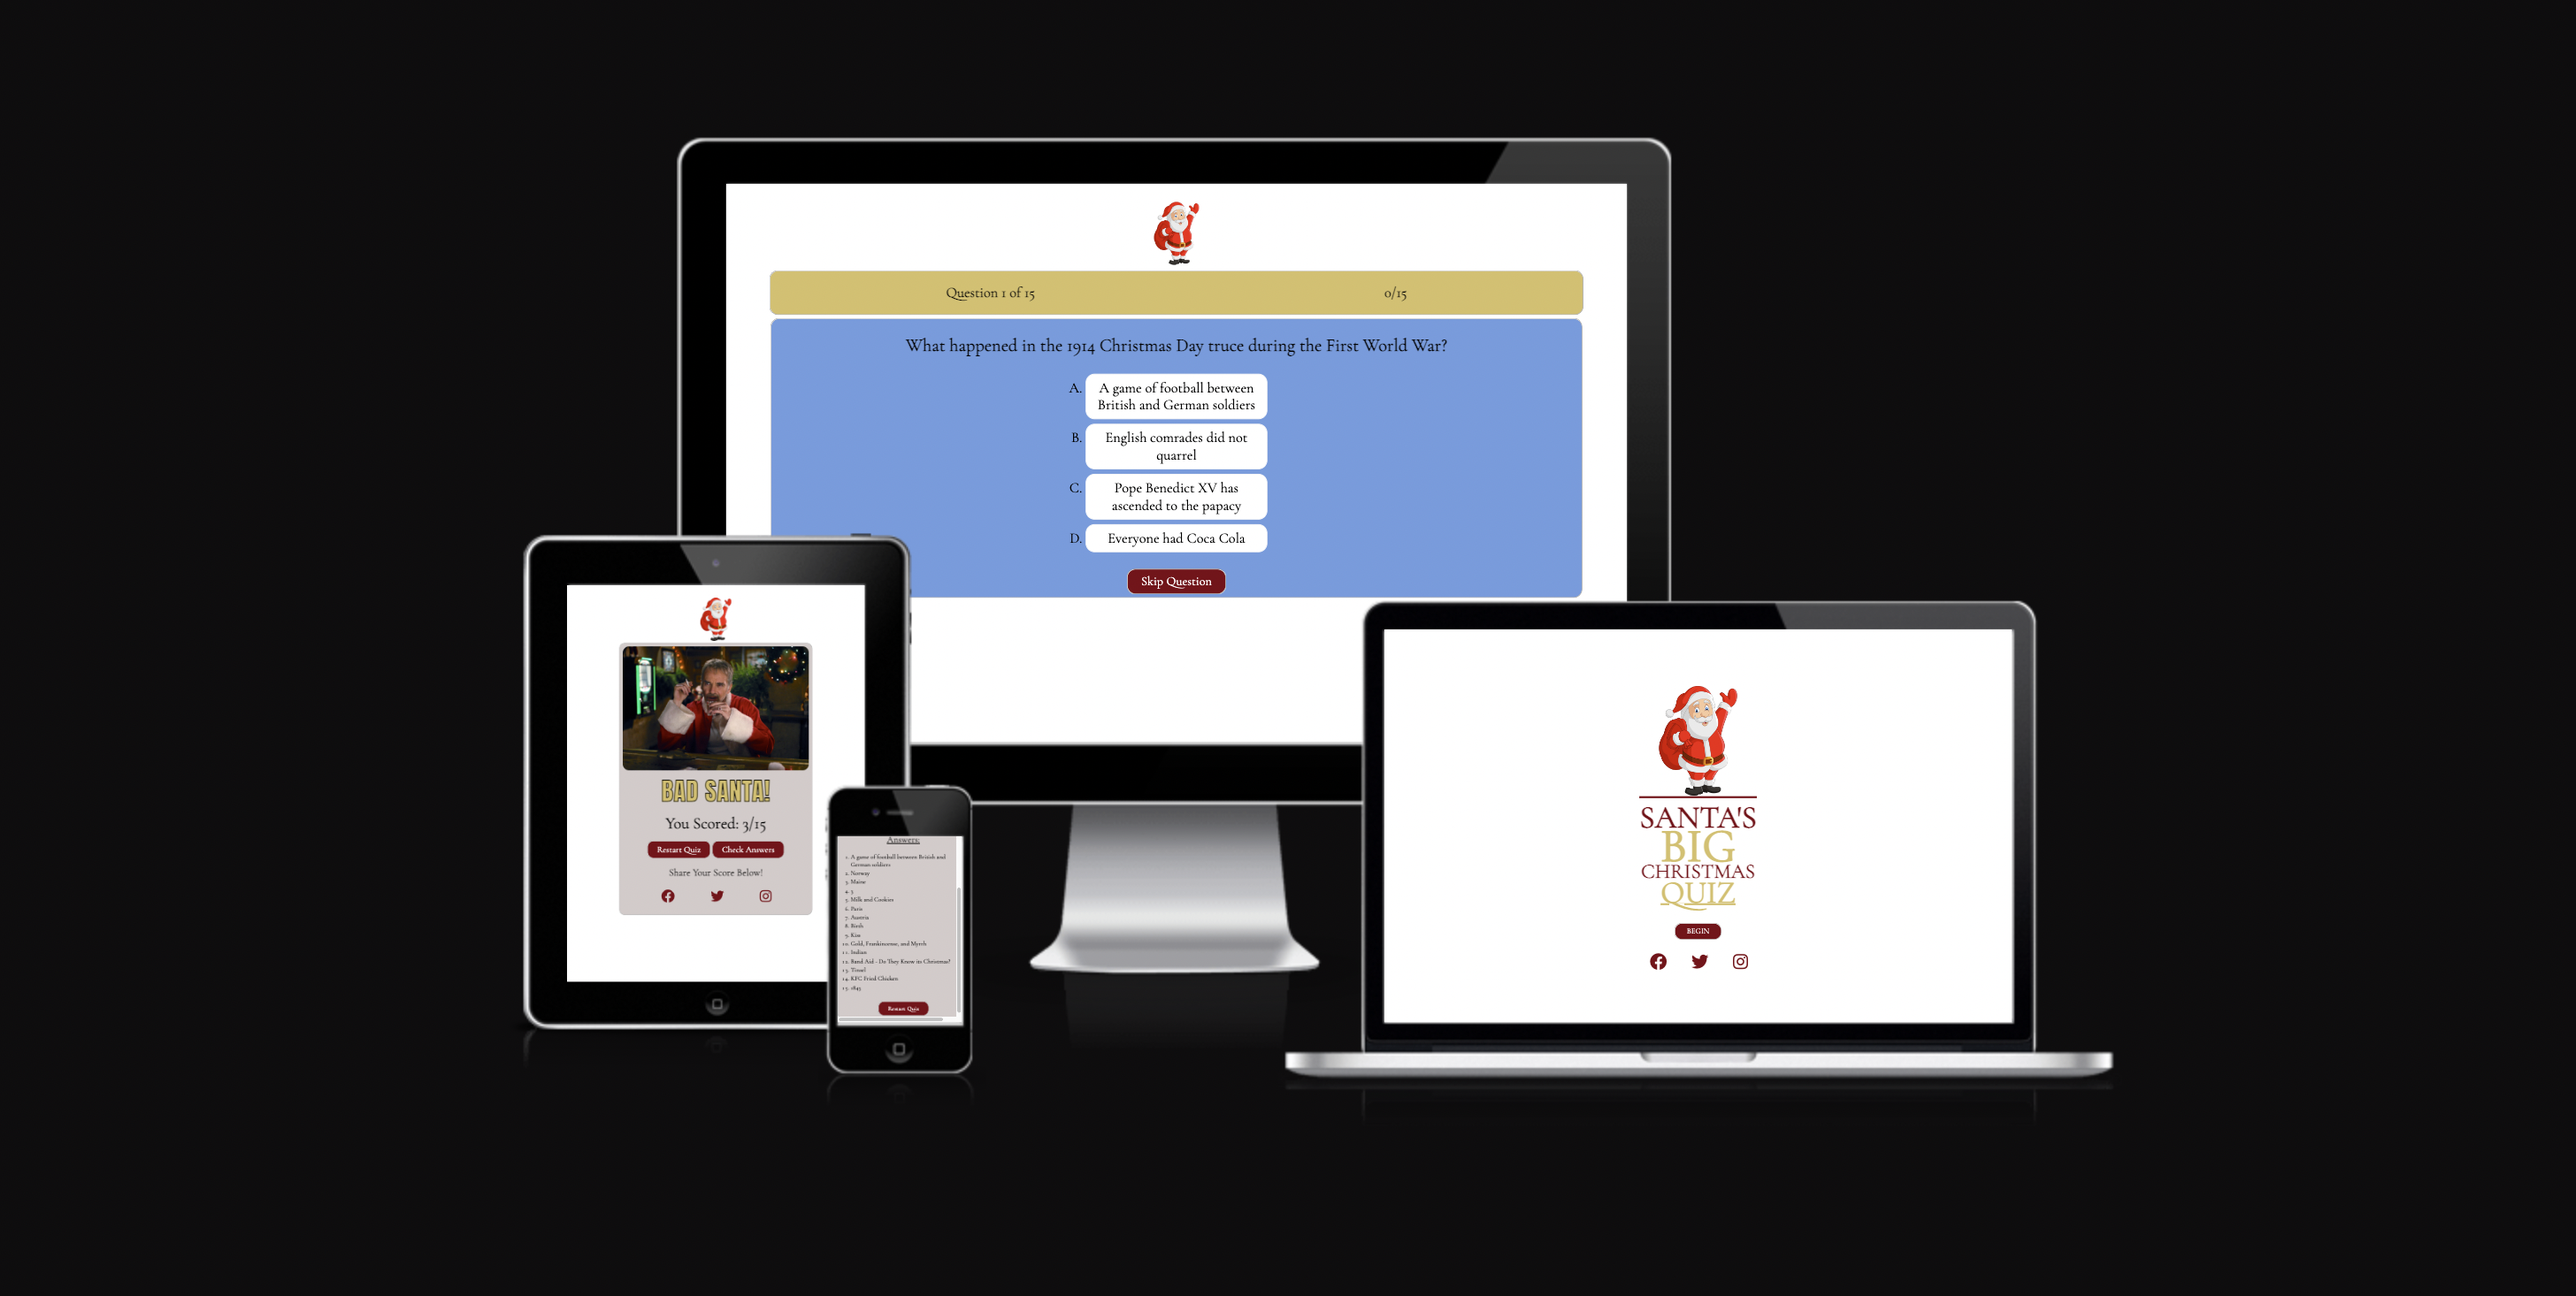
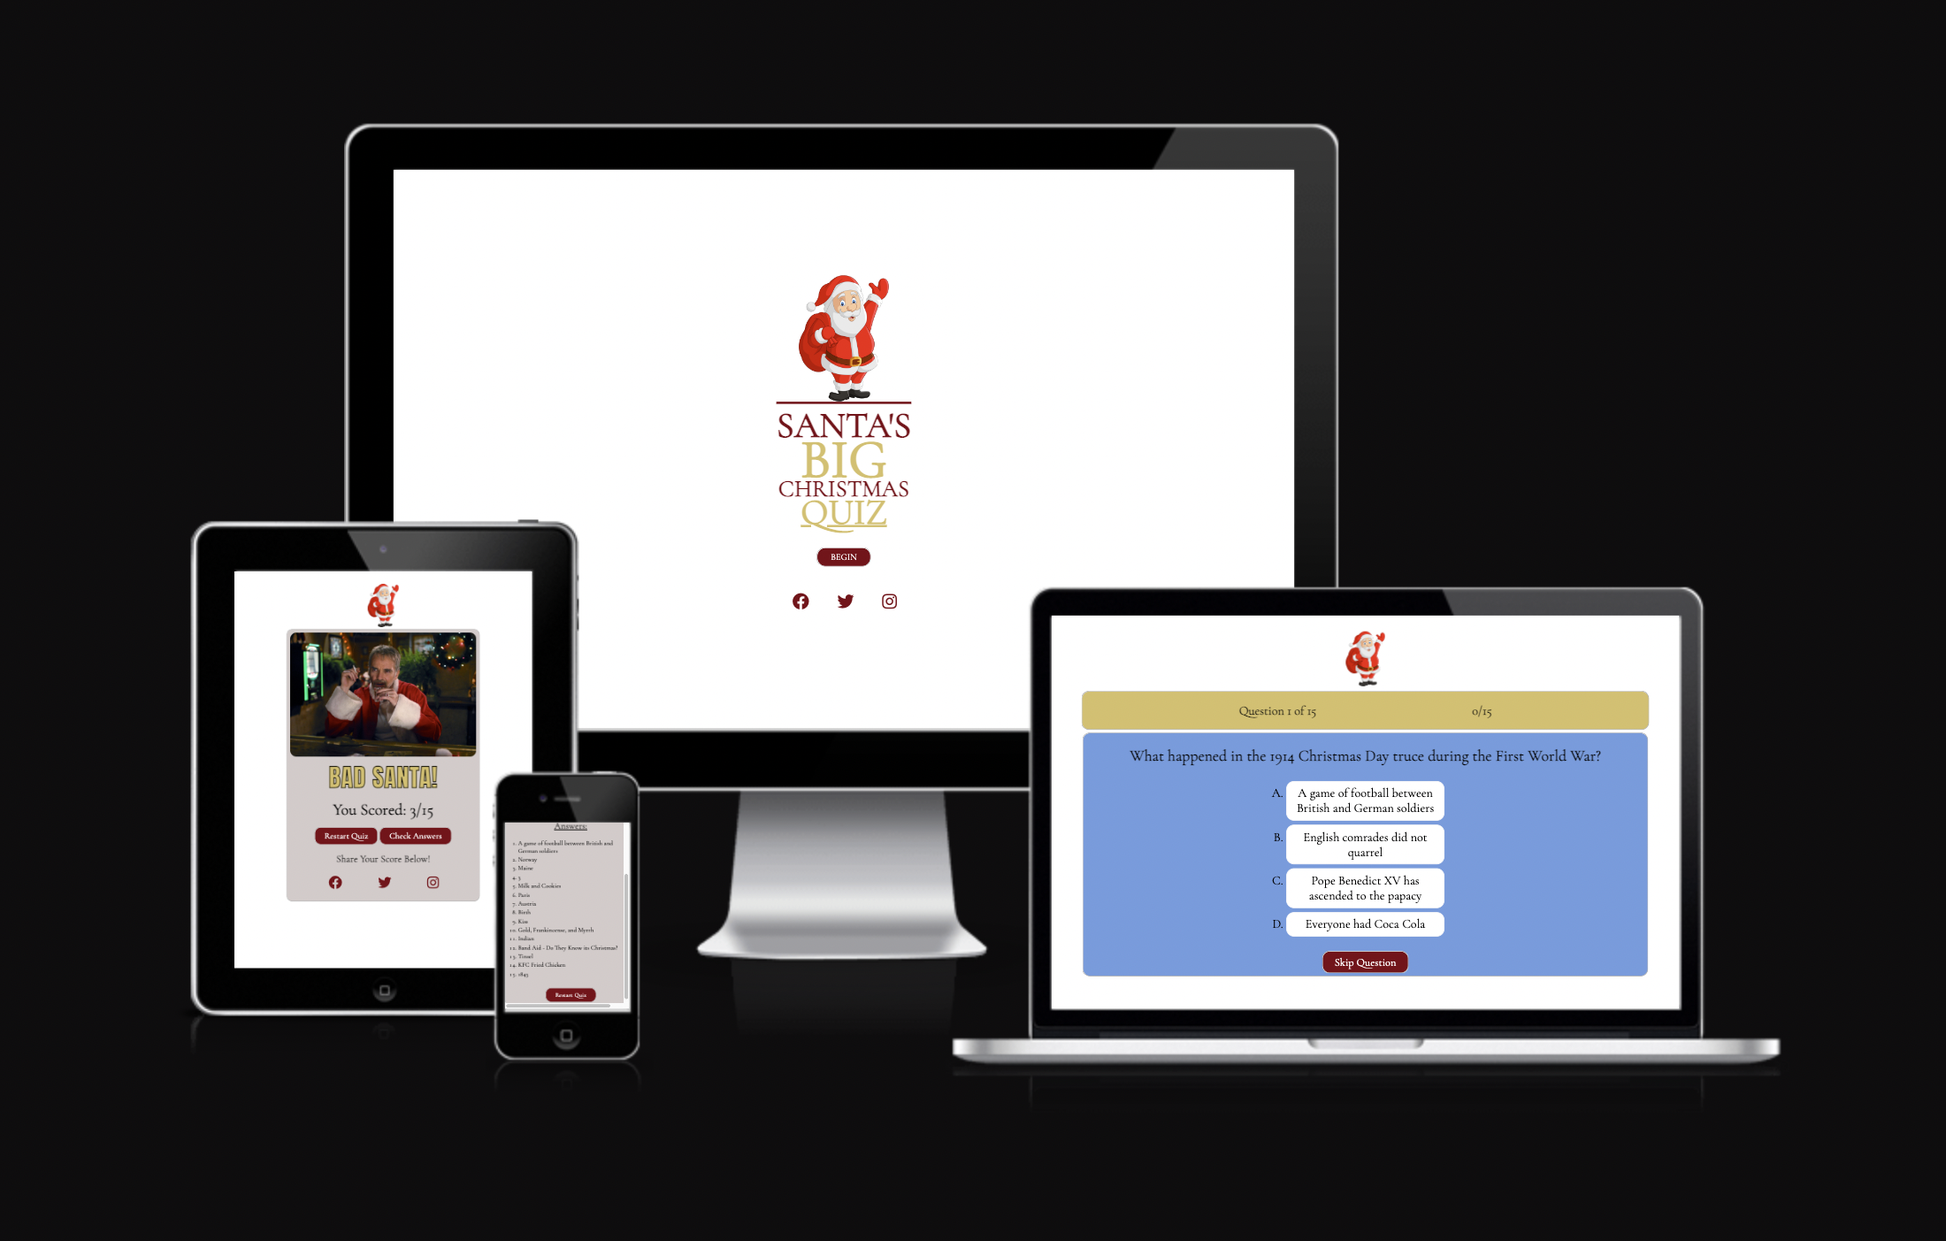
used a better am i responsive mockup image

diff --git a/README.md b/README.md
@@ -4,7 +4,7 @@ View my live project here! [Santa's Big Christmas Quiz](https://jonathanwhitedev
 
 Santa's Big Christmas Quiz is a interactive website based quiz that is readily available to provide fun Christmas themed quizes for all. Traditionally many office parties and family get togethers incorporate a quiz of some sort, and many have to make there own quiz from scratch, trawlliing the web to find questions and answers. This website aims to fill the gap for a lack of online quizes.
 
-![Responsive Mockup](docs/screenshots/am-i-responsive.png)
+![Responsive Mockup](screenshots/am-i-responsive.png)
 
 The following responsive screensizes of my website can also be found here: (https://ui.dev/amiresponsive?url=https://jonathanwhitedev.github.io/voyager/index.html)
 
